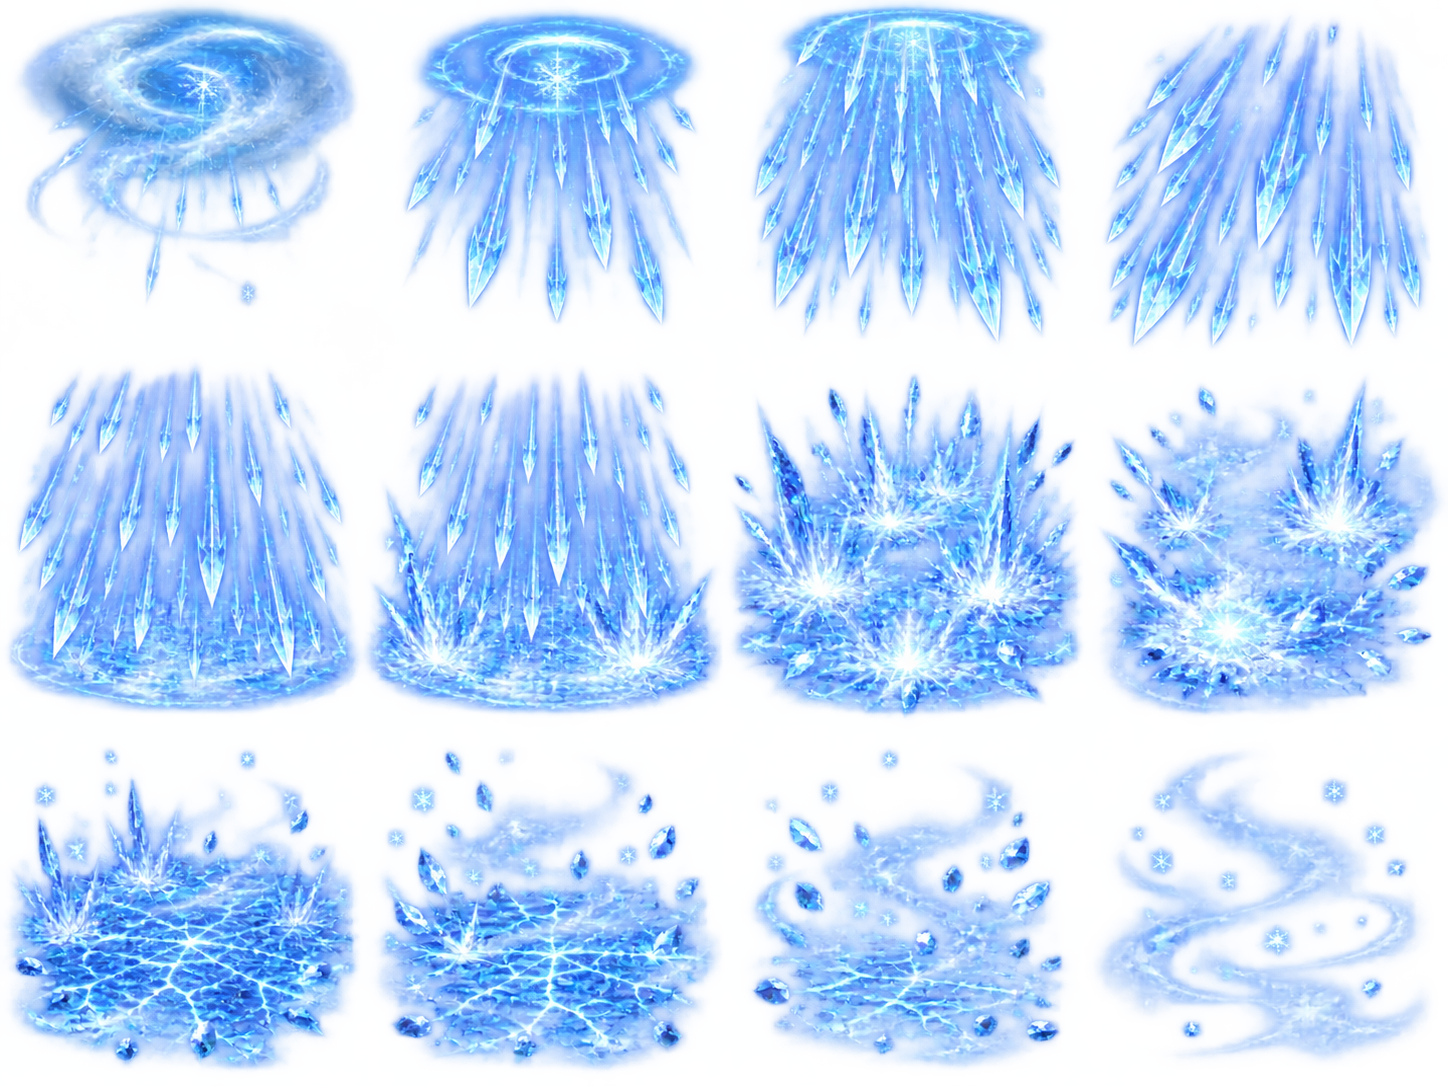
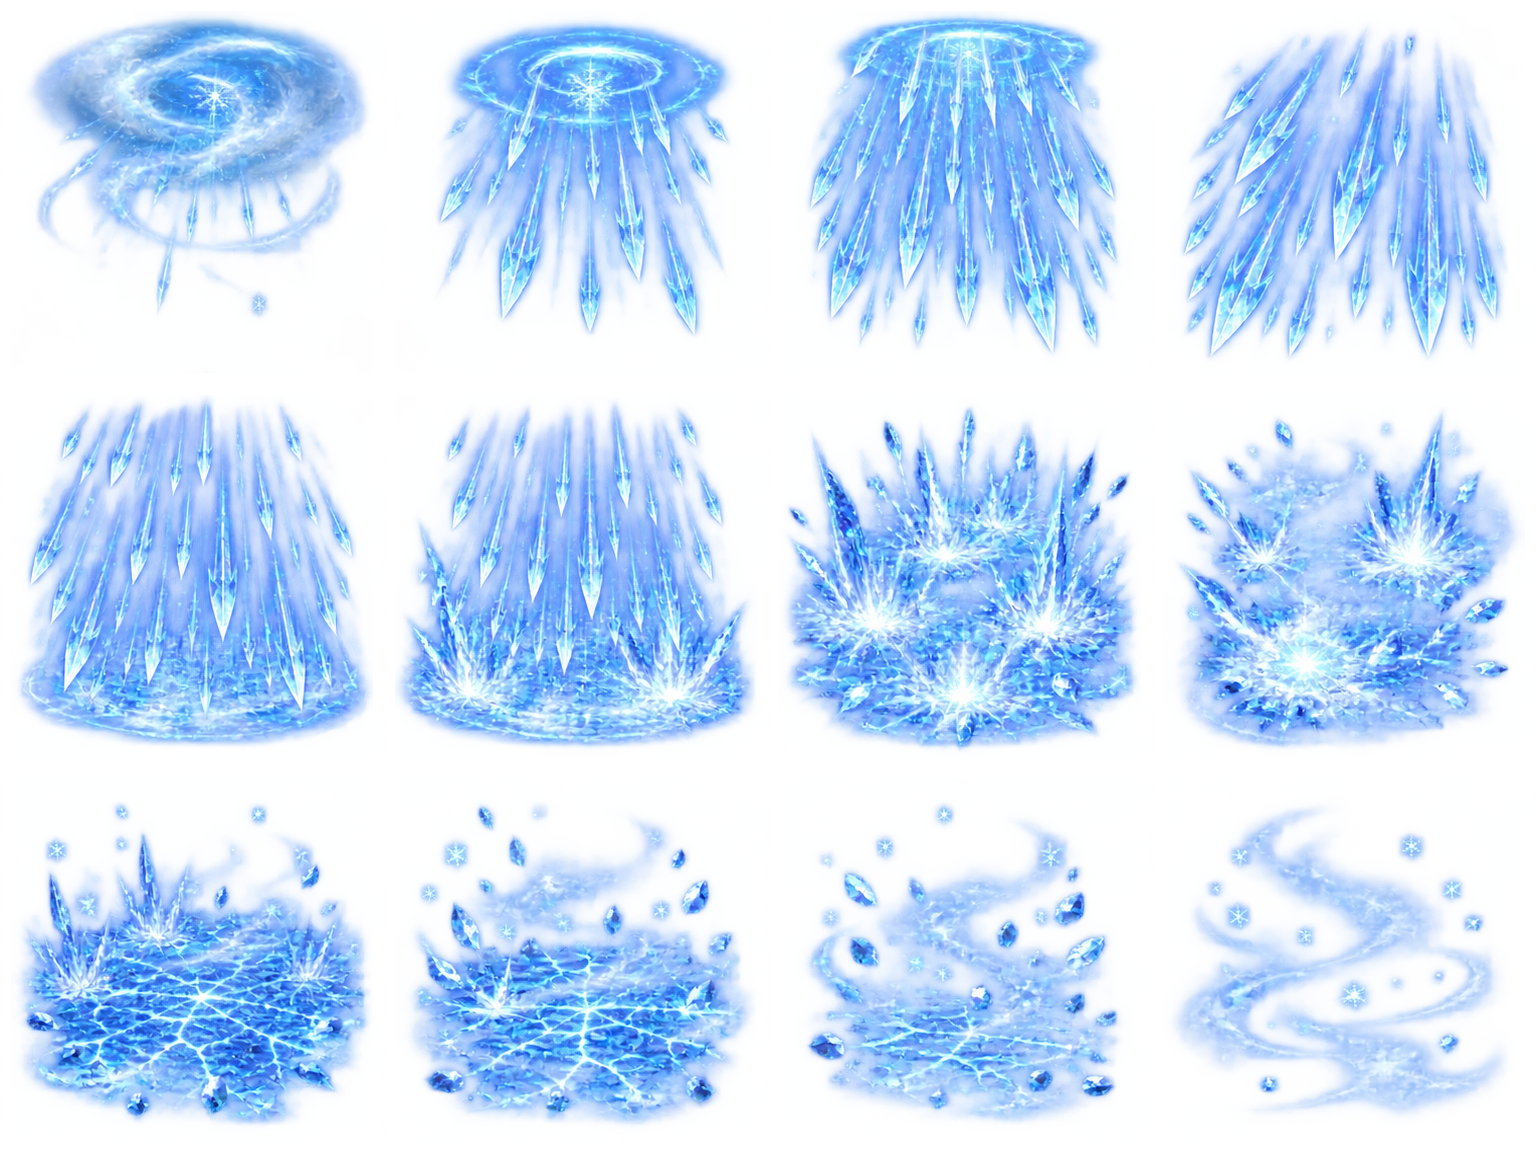
fix: normalize water VFX sprite sheets

diff --git a/index.html b/index.html
@@ -3,7 +3,7 @@
 <head>
 <meta charset="UTF-8">
 <meta name="viewport"content="width=device-width,initial-scale=1.0,maximum-scale=1.0,user-scalable=no,viewport-fit=cover">
-<title>四象江湖傳 V173.13</title>
+<title>四象江湖傳 V173.14</title>
 
 <link rel="preconnect"href="https://fonts.googleapis.com">
 <link rel="preconnect"href="https://fonts.gstatic.com"crossorigin>
@@ -11,7 +11,7 @@
 
 <link rel="stylesheet" href="css/00-main.css">
 
-<style id="v173.13-home-version-badge-style">
+<style id="v173.14-home-version-badge-style">
 #game-stage #homePage .home-version-badge{
     position:absolute;
     right:10px;
@@ -49,7 +49,7 @@
 
 
 <link id="v119-ally-target-style" rel="stylesheet" href="css/04-v119-ally-target-style.css">
-<link id="v129-character-creation-native" rel="stylesheet" href="css/29-v125-character-creation-native.css?v=173.13">
+<link id="v129-character-creation-native" rel="stylesheet" href="css/29-v125-character-creation-native.css?v=173.14">
 
 </head>
 
@@ -714,8 +714,8 @@
 <div
     id="homeVersionBadge"
     class="home-version-badge"
-    aria-label="目前版本 V173.13"
->V173.13</div>
+    aria-label="目前版本 V173.14"
+>V173.14</div>
 
 <h2>主城</h2>
 
@@ -2821,13 +2821,13 @@
 </div>
 
 
-<script src="js/00-main.js?v=173.13"></script>
+<script src="js/00-main.js?v=173.14"></script>
 
 </div>
 </div>
 </div>
 <!-- V86: inventory-grid-scroll is now recognized by the existing V8 touch lock as the sole inventory scroll owner. -->
-<script id="stage-v8-touch-lock" src="js/01-stage-v8-touch-lock.js?v=173.13"></script>
+<script id="stage-v8-touch-lock" src="js/01-stage-v8-touch-lock.js?v=173.14"></script>
 
 
 <script id="stage-v9-native-coordinate-api" src="js/02-stage-v9-native-coordinate-api.js"></script>
@@ -2933,7 +2933,7 @@
 
 
 
-<script id="stage-v78-character-inventory-runtime" src="js/19-stage-v78-character-inventory-runtime.js?v=173.13"></script>
+<script id="stage-v78-character-inventory-runtime" src="js/19-stage-v78-character-inventory-runtime.js?v=173.14"></script>
 
 
 
@@ -2963,7 +2963,7 @@
      No damage/SP/initiative/skill formulas changed. -->
 
 <!-- V136: version the loader itself; otherwise a cached old loader never sees new patch versions. -->
-<script src="js/20-anonymous-20.js?v=173.13"></script>
+<script src="js/20-anonymous-20.js?v=173.14"></script>
 <script id="v129-character-creation-native-runtime" src="js/24-v125-character-creation-native-runtime.js?v=129a"></script>
 
 

diff --git a/tests/v172-water-orb-vfx.test.js b/tests/v172-water-orb-vfx.test.js
@@ -19,7 +19,7 @@ test("Water Ball uses the supplied 1536×1152 inbox sheet with an explicit fixed
     assert.deepEqual([asset.readUInt32BE(16),asset.readUInt32BE(20)],[1536,1152]);
     assert.match(
         animation,
-        /waterBall:\{[\s\S]*?water-orb-vfx\.png\?v=173\.13[\s\S]*?columns:4,rows:3,frames:12,frameWidth:384,frameHeight:384,hitFrame:7,[\s\S]*?placement:"group",renderer:"canvas-crop"/
+        /waterBall:\{[\s\S]*?water-orb-vfx\.png\?v=173\.14[\s\S]*?columns:4,rows:3,frames:12,frameWidth:384,frameHeight:384,hitFrame:7,[\s\S]*?placement:"group",renderer:"canvas-crop"/
     );
 });
 
@@ -47,9 +47,9 @@ test("Water Ball lasts 1.4 seconds and renders exactly one Canvas crop per frame
 });
 
 test("the current cache version publishes the grouped Water Ball choreography",()=>{
-    assert.match(loader,/const V_ASSET_VERSION="173\.13"/);
-    assert.match(index,/js\/00-main\.js\?v=173\.13/);
-    assert.match(index,/id="homeVersionBadge"[\s\S]*?aria-label="目前版本 V173\.13"[\s\S]*?>V173\.13<\/div>/);
+    assert.match(loader,/const V_ASSET_VERSION="173\.14"/);
+    assert.match(index,/js\/00-main\.js\?v=173\.14/);
+    assert.match(index,/id="homeVersionBadge"[\s\S]*?aria-label="目前版本 V173\.14"[\s\S]*?>V173\.14<\/div>/);
 });
 
 console.log("\nV172 Water Ball VFX suite: "+passed+" tests passed.");

diff --git a/tests/v166-water-vfx.test.js b/tests/v166-water-vfx.test.js
@@ -354,7 +354,7 @@ test("water manifest uses the exact files, twelve frames, frame-eight hit and re
         const model=manifest[id];
         assert.ok(model&&model.sprite,id+" sprite metadata");
         assert.equal(model.sprite.src.split("?")[0],"assets/vfx/water/"+filename,id);
-        const cacheVersion=["waterBall","iceArrowRain"].includes(id)?"?v=173.13":"?v=166";
+        const cacheVersion=["waterBall","iceArrowRain"].includes(id)?"?v=173.14":"?v=166";
         assert.ok(model.sprite.src.endsWith(cacheVersion),id+" cache version");
         if(["waterBall","iceArrowRain"].includes(id)){
             assert.equal(model.sprite.renderer,"canvas-crop",id+" Canvas renderer");
@@ -684,8 +684,8 @@ test("final combat targeting and Frostbite rules remain unchanged",()=>{
 });
 
 test("the current cache version publishes the water sheets, choreography and CSS",()=>{
-    assert.match(loader,/const V_ASSET_VERSION="173\.13"/);
-    assert.match(index,/js\/20-anonymous-20\.js\?v=173\.13/);
+    assert.match(loader,/const V_ASSET_VERSION="173\.14"/);
+    assert.match(index,/js\/20-anonymous-20\.js\?v=173\.14/);
     assert.match(loader,/40-v143-combat-dungeon-polish\.css/);
     assert.match(loader,/39-v143-skill-animation\.js/);
 });

diff --git a/tests/v173-water-orb-direction-vfx.test.js b/tests/v173-water-orb-direction-vfx.test.js
@@ -14,7 +14,7 @@ function test(name,handler){ handler(); passed++; console.log("✓ "+name); }
 test("Water Ball owns a 12-frame, 4x3 group sprite with the frame-eight hit",()=>{
     assert.match(
         animation,
-        /waterBall:\{[\s\S]*?hit:\.5833333333[\s\S]*?frames:12,frameWidth:384,frameHeight:384,hitFrame:7,placement:"group",renderer:"canvas-crop"/
+        /waterBall:\{[\s\S]*?hit:\.5833333333[\s\S]*?frames:12,frameWidth:384,frameHeight:384,hitFrame:7,\s*placement:"group",renderer:"canvas-crop"/
     );
 });
 
@@ -38,9 +38,9 @@ test("Canvas visits frames left-to-right, top-to-bottom once without per-target 
     assert.doesNotMatch(css,/data-skill="waterBall"[\s\S]*?v166-water-cast-sprite/);
 });
 
-test("the published build label is V173.13",()=>{
-    assert.match(loader,/const V_ASSET_VERSION="173\.13"/);
-    assert.match(index,/aria-label="目前版本 V173\.13"[\s\S]*?>V173\.13<\/div>/);
+test("the published build label is V173.14",()=>{
+    assert.match(loader,/const V_ASSET_VERSION="173\.14"/);
+    assert.match(index,/aria-label="目前版本 V173\.14"[\s\S]*?>V173\.14<\/div>/);
 });
 
 console.log("\nV173 Water Ball target-group VFX suite: "+passed+" tests passed.");

diff --git a/tests/v150-ice-arrow-rain-vfx.test.js b/tests/v150-ice-arrow-rain-vfx.test.js
@@ -167,7 +167,7 @@ test("official Ice Arrow Rain sheet is a complete 4x3 RGBA PNG",()=>{
 test("manifest keeps one 4x3 sheet and frame-eight hit",()=>{
     const runtime=loadRuntime([0,1,2]);
     const model=runtime.context.v143SkillAnimationManifest.iceArrowRain;
-    assert.equal(model.sprite.src,assetPath+"?v=173.13");
+    assert.equal(model.sprite.src,assetPath+"?v=173.14");
     assert.equal(model.sprite.renderer,"canvas-crop");
     assert.deepEqual([model.sprite.frameWidth,model.sprite.frameHeight],[384,384]);
     assert.deepEqual(
@@ -244,9 +244,9 @@ test("all damage numbers share frame eight while remaining target-specific",()=>
 });
 
 test("the current cache version publishes the 1.6 second battlefield choreography",()=>{
-    assert.match(loader,/const V_ASSET_VERSION="173\.13"/);
-    assert.match(index,/js\/20-anonymous-20\.js\?v=173\.13/);
-    assert.match(animation,/frost-arrow-rain-vfx\.png\?v=173\.13/);
+    assert.match(loader,/const V_ASSET_VERSION="173\.14"/);
+    assert.match(index,/js\/20-anonymous-20\.js\?v=173\.14/);
+    assert.match(animation,/frost-arrow-rain-vfx\.png\?v=173\.14/);
 });
 
 console.log("\n"+passed+" V150 Ice Arrow Rain VFX tests passed.");

diff --git a/tests/v173.11-abyss-vfx-dungeon.test.js b/tests/v173.11-abyss-vfx-dungeon.test.js
@@ -22,15 +22,15 @@ assert.match(dungeon,/if\(!DUNGEON_DAILY_LIMIT_ENABLED\)\{ return false; \}/);
 
 assert.match(
     animation,
-    /waterBall:\{[\s\S]*?columns:4,rows:3,frames:12,frameWidth:384,frameHeight:384,hitFrame:7,placement:"group",renderer:"canvas-crop"/
+    /waterBall:\{[\s\S]*?columns:4,rows:3,frames:12,frameWidth:384,frameHeight:384,hitFrame:7,\s*placement:"group",renderer:"canvas-crop"/
 );
 assert.match(
     animation,
-    /iceArrowRain:\{[\s\S]*?columns:4,rows:3,frames:12,frameWidth:384,frameHeight:384,hitFrame:7,placement:"battlefield",renderer:"canvas-crop",targetBounds:true,coverageScale:1\.22/
+    /iceArrowRain:\{[\s\S]*?columns:4,rows:3,frames:12,frameWidth:384,frameHeight:384,hitFrame:7,\s*placement:"battlefield",renderer:"canvas-crop",targetBounds:true,coverageScale:1\.22/
 );
 assert.match(
     animation,
     /const targetCards=indexes\.map\(targetIndex=>cardFor\(current\.targetSide,targetIndex\)\)[\s\S]*?const bounds=fieldBounds\(targetCards\);/
 );
 
-console.log("V173.13 Abyss, VFX, and daily-dungeon regression checks passed.");
+console.log("V173.14 Abyss, VFX, and daily-dungeon regression checks passed.");

diff --git a/tests/v157-abyss-map-tap-fix.test.js b/tests/v157-abyss-map-tap-fix.test.js
@@ -17,8 +17,8 @@ function test(name,handler){
 }
 
 test("the current cache key delivers the Abyss tap correction",()=>{
-    assert.match(loader,/const V_ASSET_VERSION="173\.13"/);
-    assert.match(index,/js\/20-anonymous-20\.js\?v=173\.13/);
+    assert.match(loader,/const V_ASSET_VERSION="173\.14"/);
+    assert.match(index,/js\/20-anonymous-20\.js\?v=173\.14/);
 });
 
 test("Abyss map portraits use the reduced mobile size and keep a full button hit area",()=>{
@@ -30,7 +30,7 @@ test("Abyss map portraits use the reduced mobile size and keep a full button hit
 test("capture-phase BOSS bridge wins over every portrait or player layer",()=>{
     assert.match(
         abyss,
-        /function installAbyssBossInputBridge\(\)[\s\S]*?map\.addEventListener\("pointerup",[\s\S]*?isAbyssMapControlHit\(event,boss\)[\s\S]*?v141HandleAbyssBossInteraction\(event\)/
+        /function installAbyssBossInputBridge\(\)[\s\S]*?\["pointerup","click"\]\.forEach\(type=>map\.addEventListener\(type,event=>[\s\S]*?isAbyssMapControlHit\(event,boss\)[\s\S]*?v141HandleAbyssBossInteraction\(event\)/
     );
     assert.match(
         abyss,

diff --git a/tests/v169-abyss-assets-flow.test.js b/tests/v169-abyss-assets-flow.test.js
@@ -75,10 +75,9 @@ test("supplied chest and portal art stays inside the previous compact footprint"
 
 test("guardian dialogue opens directly and remains a local boss-anchored bubble",()=>{
     assert.match(abyss,/window\.v141ApproachAbyssBoss=function/);
-    assert.match(dialogue,/openBossBubble\(\);/);
-    assert.doesNotMatch(dialogue,/v141ApproachAbyssBoss\(openBossBubble\)/);
-    assert.match(dialogue,/bossRect\.left\+bossRect\.width\/2-mapRect\.left/);
-    assert.match(dialogue,/bossRect\.top-mapRect\.top-8/);
+    assert.match(abyss,/function openAbyssBossDialogue\(\)[\s\S]*?overlay\.className="v143-abyss-dialogue"/);
+    assert.match(abyss,/window\.v141ChallengeAbyssBoss=function\(\)[\s\S]*?return openAbyssBossDialogue\(\);/);
+    assert.doesNotMatch(dialogue,/openBossBubble\(\);/);
     assert.match(css,/\.v141-abyss-map > \.v143-abyss-dialogue\{[\s\S]*inset:auto !important;[\s\S]*height:auto !important;/);
     assert.match(css,/transform:translate\(-50%,-100%\)/);
     assert.doesNotMatch(css,/\.v141-abyss-map > \.v143-abyss-dialogue\{[^}]*height:100%/);

diff --git a/js/39-v143-skill-animation.js b/js/39-v143-skill-animation.js
@@ -124,7 +124,7 @@
         waterBall:{
             glyph:"●",motion:"wave",impact:"water-splash",hit:.5833333333,pulses:1,spread:34,
             sprite:{
-                src:"assets/vfx/water/water-orb-vfx.png?v=173.13",
+                src:"assets/vfx/water/water-orb-vfx.png?v=173.14",
                 columns:4,rows:3,frames:12,frameWidth:384,frameHeight:384,hitFrame:7,
                 placement:"group",renderer:"canvas-crop",scale:1.22,minSize:150,maxSize:500
             }
@@ -142,7 +142,7 @@
             glyph:"➶",motion:"rain",impact:"ice-rain",hit:.5833333333,
             pulses:7,spread:104,flightCount:7,deferredStatusTypes:["frostbite"],
             sprite:{
-                src:"assets/vfx/water/frost-arrow-rain-vfx.png?v=173.13",
+                src:"assets/vfx/water/frost-arrow-rain-vfx.png?v=173.14",
                 columns:4,rows:3,frames:12,frameWidth:384,frameHeight:384,hitFrame:7,
                 placement:"battlefield",renderer:"canvas-crop",targetBounds:true,coverageScale:1.22,
                 minWidth:140,minHeight:140

diff --git a/tests/v173.2-mobile-touch-scroll.test.js b/tests/v173.2-mobile-touch-scroll.test.js
@@ -128,11 +128,11 @@ test("A touch inside skill levels is allowed once, while the modal background re
     assert.equal(dispatch("pointermove",modalBackground,"touch"),true);
 });
 
-test("The published mobile fix remains covered in the V173.13 cache release",()=>{
-    assert.match(loader,/const V_ASSET_VERSION="173\.13"/);
-    assert.match(index,/css\/29-v125-character-creation-native\.css\?v=173\.13/);
-    assert.match(index,/js\/01-stage-v8-touch-lock\.js\?v=173\.13/);
-    assert.match(index,/aria-label="目前版本 V173\.13"[\s\S]*?>V173\.13<\/div>/);
+test("The published mobile fix remains covered in the V173.14 cache release",()=>{
+    assert.match(loader,/const V_ASSET_VERSION="173\.14"/);
+    assert.match(index,/css\/29-v125-character-creation-native\.css\?v=173\.14/);
+    assert.match(index,/js\/01-stage-v8-touch-lock\.js\?v=173\.14/);
+    assert.match(index,/aria-label="目前版本 V173\.14"[\s\S]*?>V173\.14<\/div>/);
 });
 
 console.log("\nV173.2 mobile touch and scroll suite: "+passed+" tests passed.");

diff --git a/tests/v173.5-bugfixes.test.js b/tests/v173.5-bugfixes.test.js
@@ -42,7 +42,7 @@ test("new Water Orb sheet is the supplied 1536×1152 four-by-three asset",()=>{
     const asset=fs.readFileSync("assets/vfx/water/water-orb-vfx.png");
     assert.equal(asset.toString("ascii",12,16),"IHDR");
     assert.deepEqual([asset.readUInt32BE(16),asset.readUInt32BE(20)],[1536,1152]);
-    assert.match(animation,/water-orb-vfx\.png\?v=173\.13[\s\S]*?columns:4,rows:3,frames:12,frameWidth:384,frameHeight:384,hitFrame:7,[\s\S]*?renderer:"canvas-crop"/);
+    assert.match(animation,/water-orb-vfx\.png\?v=173\.14[\s\S]*?columns:4,rows:3,frames:12,frameWidth:384,frameHeight:384,hitFrame:7,[\s\S]*?renderer:"canvas-crop"/);
 });
 
 test("Phoenix Cry and Ice Arrow Rain use one centered battlefield sheet",()=>{
@@ -74,4 +74,4 @@ test("Frostbite expires from monsters and players at the normal status tick",()=
     assert.equal(updates,1);
 });
 
-console.log("\nV173.13 bug-fix suite: "+passed+" tests passed.");
+console.log("\nV173.14 bug-fix suite: "+passed+" tests passed.");

diff --git a/tests/v173.13-canvas-vfx-abyss-input.test.js b/tests/v173.13-canvas-vfx-abyss-input.test.js
@@ -203,10 +203,10 @@ test("Abyss dialogue is owned directly by the map source and has pointer plus cl
     assert.doesNotMatch(legacyAbyssPatch,/v141ChallengeAbyssBoss=function/);
 });
 
-test("the published release is V173.13",()=>{
-    assert.match(loader,/const V_ASSET_VERSION="173\.13"/);
-    assert.match(index,/<title>四象江湖傳 V173\.13<\/title>/);
-    assert.match(index,/aria-label="目前版本 V173\.13"[\s\S]*?>V173\.13<\/div>/);
+test("the published release is V173.14",()=>{
+    assert.match(loader,/const V_ASSET_VERSION="173\.14"/);
+    assert.match(index,/<title>四象江湖傳 V173\.14<\/title>/);
+    assert.match(index,/aria-label="目前版本 V173\.14"[\s\S]*?>V173\.14<\/div>/);
 });
 
-console.log("\n"+passed+" V173.13 Canvas VFX and Abyss input tests passed.");
+console.log("\n"+passed+" V173.14 Canvas VFX and Abyss input tests passed.");
